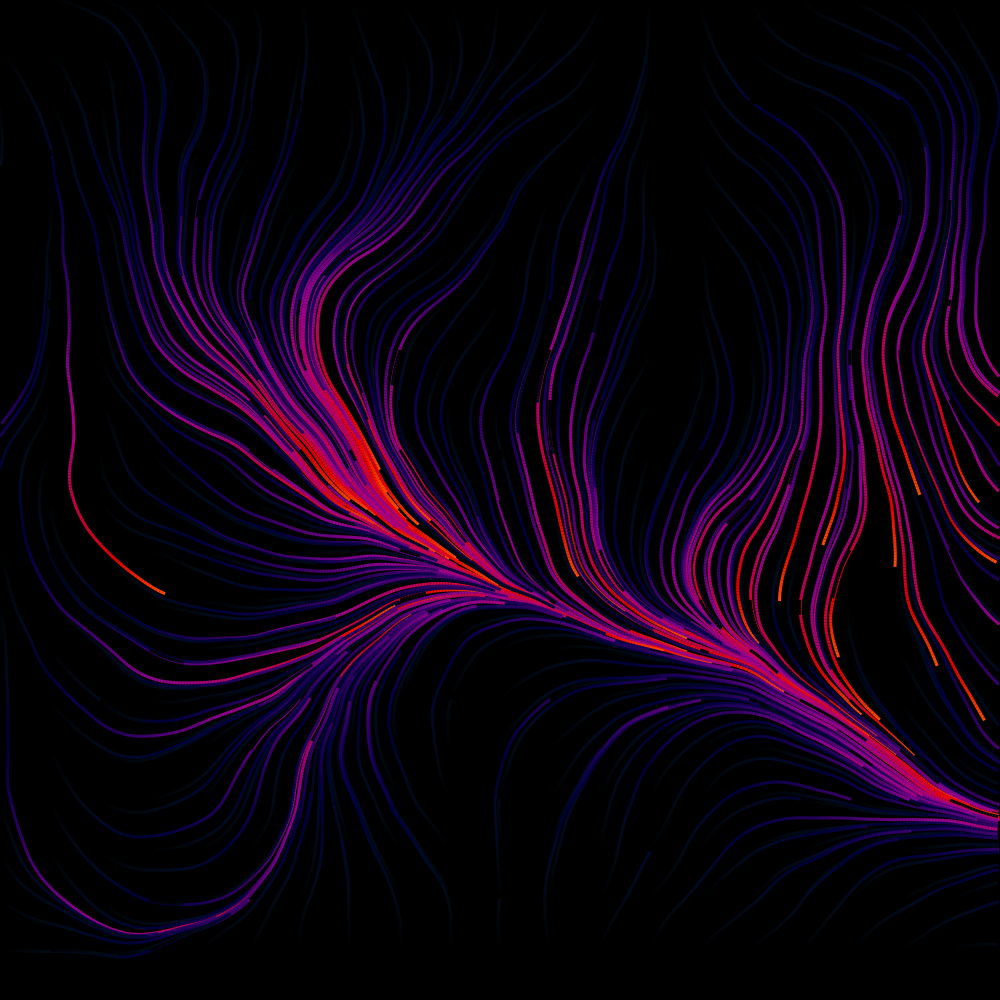
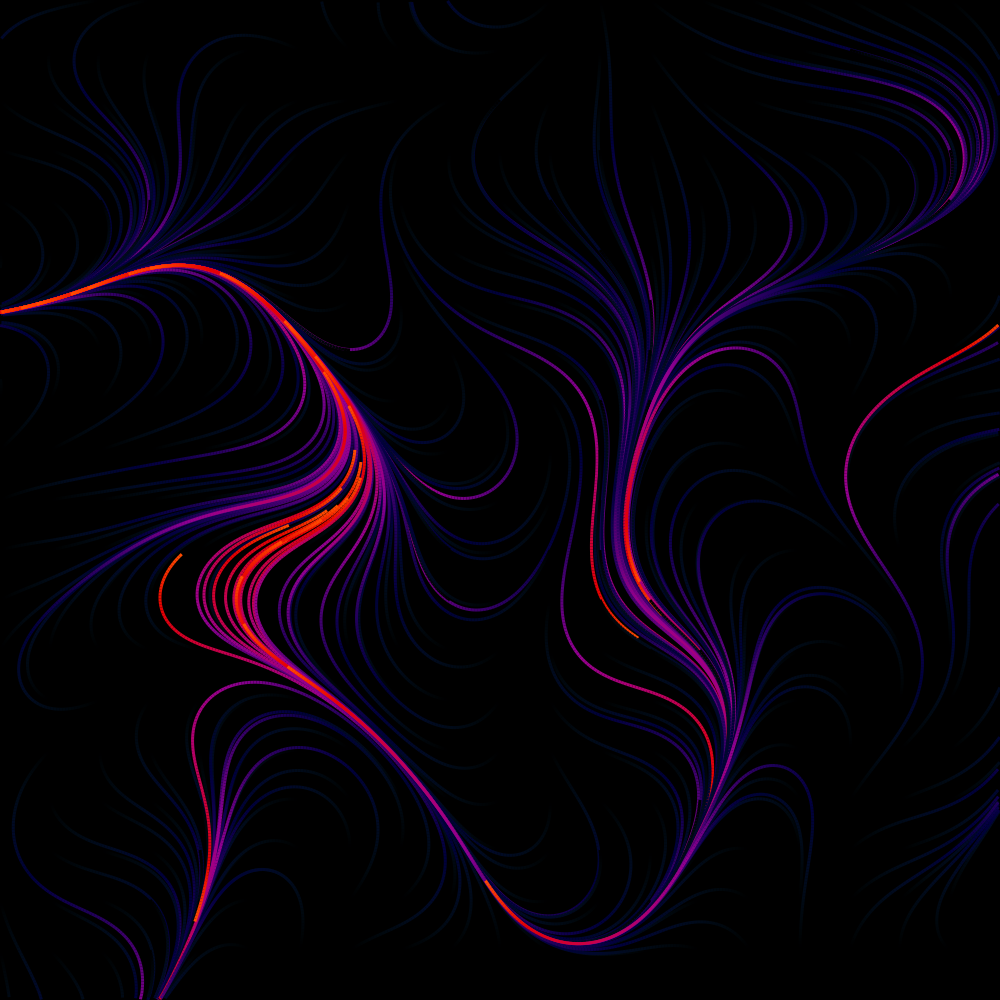
feat: add OpenSimplex noise

diff --git a/src/simplex.py b/src/simplex.py
@@ -1,0 +1,105 @@
+import json
+import math
+
+import configuration
+from math_utils import fade, lerp
+
+SKEW_2D = 0.366025403784439
+UNSKEW_2D = -0.21132486540518713
+PRIME_X = 0x5205402B9270C86F
+PRIME_Y = 0x598CD327003817B5
+RSQUARED_2D = 0.5
+HASH_MULTIPLIER = 0x53A3F72DEEC546F5
+NORMALIZER_2D = 0.01001634121365712
+N_GRADS_2D_EXPONENT = 7
+N_GRADS_2D = 1 << N_GRADS_2D_EXPONENT
+# fmt: off
+grad2 = [0.38268343236509, 0.923879532511287, 0.923879532511287, 0.38268343236509, 0.923879532511287, -0.38268343236509, 0.38268343236509, -0.923879532511287, -0.38268343236509, -0.923879532511287, -0.923879532511287, -0.38268343236509, -0.923879532511287, 0.38268343236509, -0.38268343236509, 0.923879532511287, 0.130526192220052, 0.99144486137381, 0.608761429008721, 0.793353340291235, 0.793353340291235, 0.608761429008721, 0.99144486137381, 0.130526192220051, 0.99144486137381, -0.130526192220051, 0.793353340291235, -0.60876142900872, 0.608761429008721, -0.793353340291235, 0.130526192220052, -0.99144486137381, -0.130526192220052, -0.99144486137381, -0.608761429008721, -0.793353340291235, -0.793353340291235, -0.608761429008721, -0.99144486137381, -0.13052619222005] * 2
+GRADIENTS_2D = [grad2[i % len(grad2)] / NORMALIZER_2D for i in range(256)]
+# fmt: on
+
+
+class OpenSimplex2D:
+    def __init__(self) -> None:
+        pass
+
+    @classmethod
+    def noise(cls, seed: int, x: float, y: float) -> float:
+        """
+        OpenSimplex2 2D Noise based on Kurt Spencer's implementation in Java.
+        """
+        s = SKEW_2D * (x + y)
+        xs = x + s
+        ys = y + s
+
+        return cls._noise_unskewed_base(seed, xs, ys)
+
+    @classmethod
+    def _noise_unskewed_base(cls, seed: int, xs: float, ys: float) -> float:
+        # Get base points and offsets
+        xsb = math.floor(xs)
+        ysb = math.floor(ys)
+        xi = xs - xsb
+        yi = ys - ysb
+
+        # Prime pre-multiplication for hash.
+        xsbp = xsb * PRIME_X
+        ysbp = ysb * PRIME_Y
+
+        # Unskew
+        t = (xi + yi) * UNSKEW_2D
+        dx0 = xi + t
+        dy0 = yi + t
+
+        value = 0.0
+
+        # First vertex
+        a0 = RSQUARED_2D - dx0 * dx0 - dy0 * dy0
+        if a0 > 0:
+            value = (a0 * a0) * (a0 * a0) * cls._grad(seed, xsbp, ysbp, dx0, dy0)
+
+        # Second vertex
+        a1 = (2 * (1 + 2 * UNSKEW_2D) * (1 / UNSKEW_2D + 2)) * t + (
+            (-2 * (1 + 2 * UNSKEW_2D) * (1 + 2 * UNSKEW_2D)) + a0
+        )
+        if a1 > 0:
+            dx1 = dx0 - (1 + 2 * UNSKEW_2D)
+            dy1 = dy0 - (1 + 2 * UNSKEW_2D)
+            value += (
+                (a1 * a1)
+                * (a1 * a1)
+                * cls._grad(seed, xsbp + PRIME_X, ysbp + PRIME_Y, dx1, dy1)
+            )
+
+        # Third vertex
+        if dy0 > dx0:
+            dx2 = dx0 - UNSKEW_2D
+            dy2 = dy0 - (UNSKEW_2D + 1)
+            a2 = RSQUARED_2D - dx2 * dx2 - dy2 * dy2
+            if a2 > 0:
+                value += (
+                    (a2 * a2)
+                    * (a2 * a2)
+                    * cls._grad(seed, xsbp, ysbp + PRIME_Y, dx2, dy2)
+                )
+        else:
+            dx2 = dx0 - (UNSKEW_2D + 1)
+            dy2 = dy0 - UNSKEW_2D
+            a2 = RSQUARED_2D - dx2 * dx2 - dy2 * dy2
+            if a2 > 0:
+                value += (
+                    (a2 * a2)
+                    * (a2 * a2)
+                    * cls._grad(seed, xsbp + PRIME_X, ysbp, dx2, dy2)
+                )
+
+        return value
+
+    @classmethod
+    def _grad(cls, seed: int, xsbp: int, ysbp: int, dx: float, dy: float) -> float:
+        hash = seed ^ xsbp ^ ysbp
+        hash *= HASH_MULTIPLIER
+        hash ^= hash >> (64 - N_GRADS_2D_EXPONENT + 1)
+        gi = hash & ((N_GRADS_2D - 1) << 1)
+
+        return GRADIENTS_2D[gi | 0] * dx + GRADIENTS_2D[gi | 1] * dy

diff --git a/src/perlin.py b/src/perlin.py
@@ -13,6 +13,7 @@ def shuffle(arr: list[int]) -> None:
         arr[index], arr[e] = arr[e], arr[index]
 
 
+# TODO: Consider swapping to classmethods
 class Perlin2D:
     def __init__(self, shuffle_p: bool = True) -> None:
         with open("src/permutation_table.json", "r") as file:
@@ -57,20 +58,21 @@ class Perlin2D:
 
     def fractal_brownian_motion(
         self,
-        x: int,
-        y: int,
+        x: float,
+        y: float,
         numOctaves: int,
         amplitude: float = 1.0,
         frequency: float = configuration.FREQUENCY,
     ) -> float:
         """Fractal Brownian Motion for better noise results."""
         result = 0.0
+        max_value = 0.0
 
         for _ in range(numOctaves):
-            n = amplitude * self.noise(x * frequency, y * frequency)
-            result += n
+            result += amplitude * self.noise(x * frequency, y * frequency)
+            max_value += amplitude
 
             amplitude *= 0.5
             frequency *= 2.0
 
-        return result
+        return result / max_value

diff --git a/src/main.py b/src/main.py
@@ -7,6 +7,7 @@ from lines.draw import draw_flow_field  # pyright: ignore[reportUnknownVariableT
 from math_utils import lerp
 from particle import Particle
 from perlin import Perlin2D
+from simplex import OpenSimplex2D
 from vector import Vec2
 
 
@@ -19,7 +20,8 @@ def setup_grid(perlin2d: Perlin2D) -> list[list[Particle]]:
         grid_row: list[Particle] = []
         for col in range(configuration.NUM_COLS + 1):
             angle = lerp(
-                perlin2d.fractal_brownian_motion(row, col, configuration.NUM_OCTAVES),
+                (OpenSimplex2D.noise(configuration.SEED, row * 0.01, col * 0.01) + 1)
+                / 2,
                 0,
                 2 * math.pi,
             )
@@ -56,7 +58,7 @@ def main() -> None:
     # Add particles to grid
     grid = setup_grid(perlin2d)
 
-    draw_flow_field(ctx, grid, start_method="sparse")
+    draw_flow_field(ctx, grid, start_method="sparse", check_collision=False)
 
     # Supersampling; scale down the image.
     final_surface = cairo.ImageSurface(

diff --git a/src/configuration.py b/src/configuration.py
@@ -5,7 +5,6 @@ from typing import final
 from colors import Color, HSVGradient, SolidColor
 from vector import Vec3
 
-# NOTE: consider switching to a TOML config
 WIDTH, HEIGHT = 1000, 1000
 SUPERSAMPLE = 1
 SCALED_WIDTH, SCALED_HEIGHT = WIDTH * SUPERSAMPLE, HEIGHT * SUPERSAMPLE
@@ -19,6 +18,8 @@ NUM_PARTITION_COL = 100
 NUM_SPARSE_LINES_X = 20
 NUM_SPARSE_LINES_Y = 20
 SOLID_COLOR: int = -1
+
+SEED: int = 1847362951
 
 
 @final

diff --git a/src/colors.py b/src/colors.py
@@ -53,9 +53,7 @@ def random_color() -> Vec3:
 
 def hsv_colors(color: Vec3, t: float) -> tuple[float, float, float]:
     hsv = colorsys.rgb_to_hsv(color.r, color.g, color.b)
-    # print(t)
     v = 1 - abs(1 - 2 * t)
-    # print(v)
     return colorsys.hsv_to_rgb(
         (hsv[0] + 0.2 * t) % 1.0,
         hsv[1],
